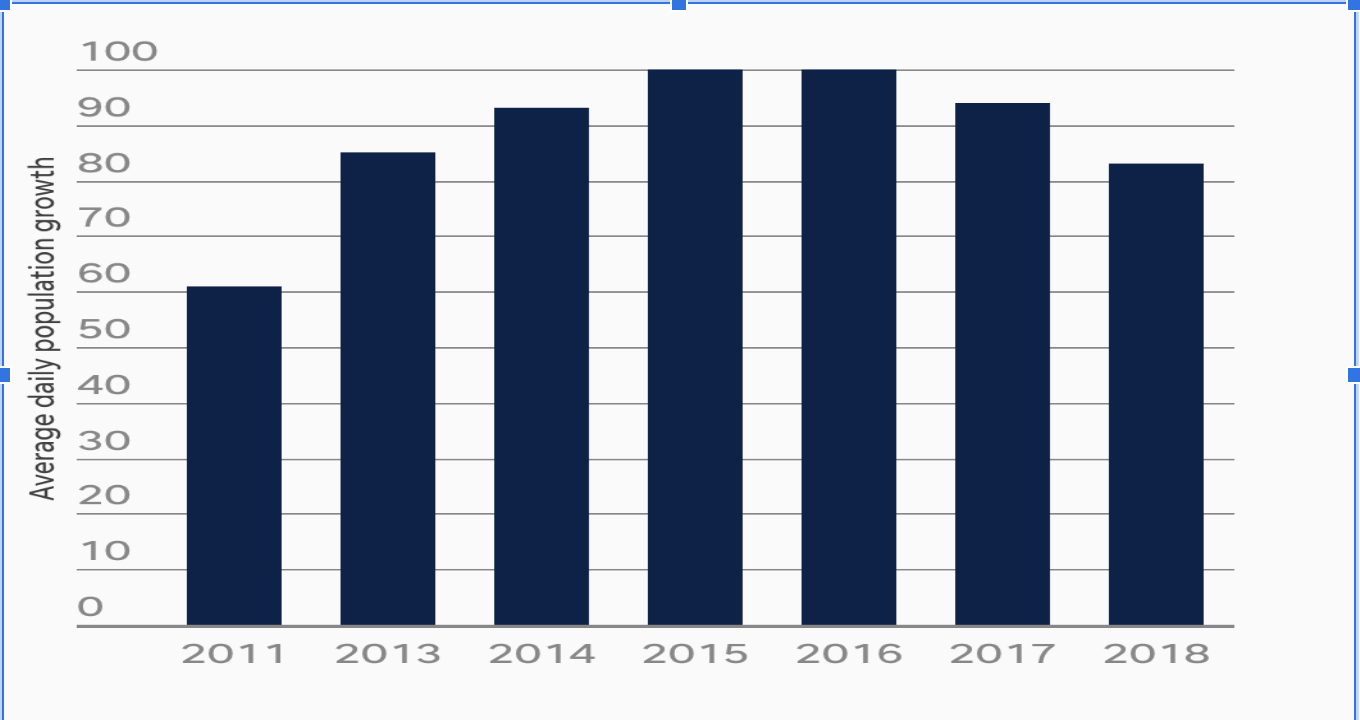
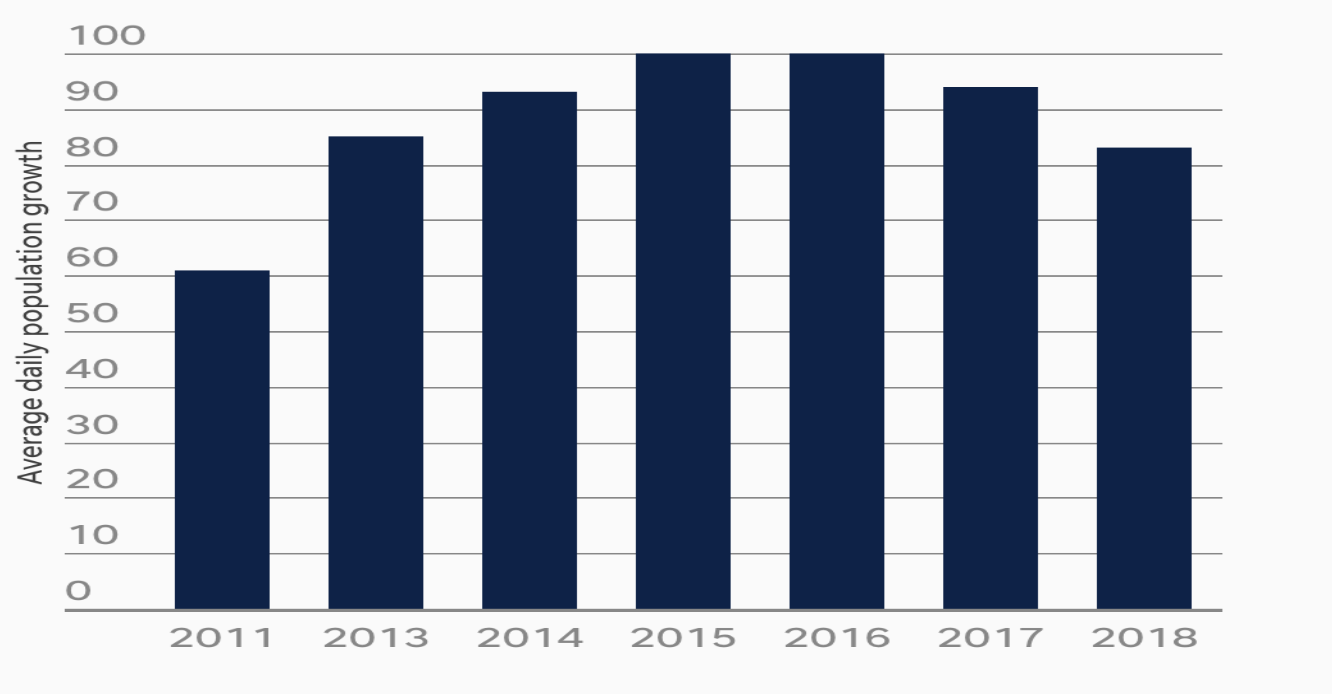
updated

diff --git a/README.md b/README.md
@@ -5,7 +5,7 @@
 ## Inspiration 
 Nashville is experiencing a rapid growth in its population. It is estimated that an average of 100 people move to Nashville per day (Tennessean, April 2019).  People are looking for a place to settle with their families that fit their budget. According to the estimates above, providing readily available information to visitors on the average energy consumption by zip code per month could alleviate the time spend searching for the right place to live, thus increasing city productivity. 
 
-<img src="images/Nashville pop growth.png"> 
+<img src="images/Nashville pop growth.png" width="400" height="400">> 
 
 To address the above problem, I will analyze the Nashville Electric Service data from 2012 to 2018 to find how average energy consumption patterns have changed over time across different zip codes. This will in turn help the current consumers as well as visitors to budget and live where they can afford. 
 
